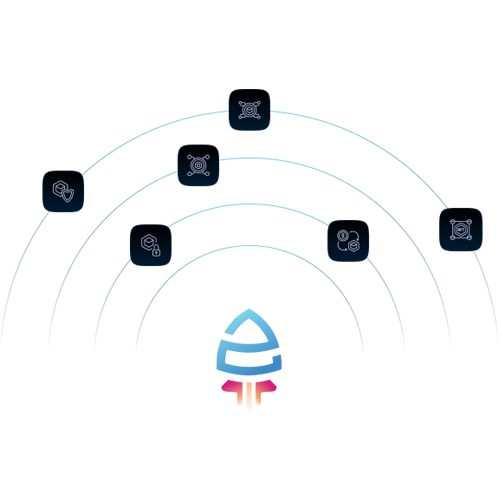
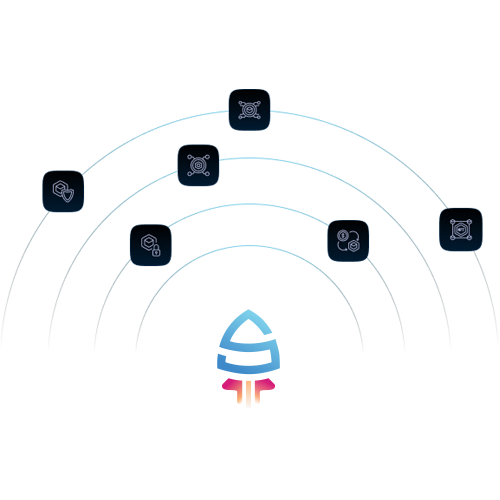
feat: animation fix & new images

Changed region(s): [[0.42, 0.63, 0.57, 0.81]]

diff --git a/src/app/components/Elements/Cards.tsx b/src/app/components/Elements/Cards.tsx
@@ -6,6 +6,7 @@ import stack from "../../../../public/staking.png";
 import liqlock from "../../../../public/lock.png";
 import token from "../../../../public/tokenomics.png";
 import { useEffect, useState } from "react";
+import { animate, inView, spring, stagger } from "motion";
 
 export default function Cards({ name, desc, type }: { name: string; desc: string; type: number }) {
 	const [pic, setPic] = useState(chain);
@@ -24,23 +25,38 @@ export default function Cards({ name, desc, type }: { name: string; desc: string
 			default:
 				setPic(token);
 		}
+		inView(".pop-in", (event) => {
+			const ele = event.target.getElementsByTagName("h2")[0];
+			const ele2 = event.target.getElementsByTagName("p")[0];
+			if (ele && ele2) {
+				animate(
+					[ele, ele2],
+					{ y: [15, 0], opacity: [0, 1] },
+					{
+						easing: "ease-in-out",
+						duration: 0.5,
+						delay: stagger(0.2, { start: 0.5 }),
+					}
+				);
+			}
+		});
 	}, []);
 	return (
 		<>
 			<div
 				className={
-					"basis-full lg:basis-1/2 flex max-2xl:flex-col items-center max-lg:mb-16 lg:mb-20 max-2xl:text-center overflow-hidden border-slate-200/30 mx-auto pop "
+					"basis-full lg:basis-1/2 flex max-2xl:flex-col items-center max-lg:mb-16 lg:mb-20 max-2xl:text-center overflow-hidden border-slate-200/30 mx-auto "
 				}
 			>
 				<div className="w-3/5 md:w-1/3 lg:w-1/2 2xl:w-4/5 xl:px-6">
 					<Image
 						id="box"
 						src={pic}
-						className="rounded-lg" // lg:shadow-[10px_20px_200px_#29abe236]  bg-gradient-to-br from-neutral-800 to-black w-full md:w-96 2xl:w-96 h-auto py-4 px-10 lg:px-16 2xl:px-0 2xl:py-0
+						className="rounded-lg pop" // lg:shadow-[10px_20px_200px_#29abe236]  bg-gradient-to-br from-neutral-800 to-black w-full md:w-96 2xl:w-96 h-auto py-4 px-10 lg:px-16 2xl:px-0 2xl:py-0
 						alt="SAFU Launcher Logo"
 					/>
 				</div>
-				<div className="pt-6 pb-8 lg:px-10">
+				<div className="pt-6 pb-8 lg:px-10 pop-in">
 					<h2 className="text-3xl/tight font-semibold mb-2 bg-gradient-to-t from-slate-200/80 to-slate-200 safu-grad-text-white">
 						{name}
 					</h2>

diff --git a/src/app/components/Elements/Block.tsx b/src/app/components/Elements/Block.tsx
@@ -2,8 +2,8 @@
 
 import Image from "next/image";
 import verse from "../../../../public/gov.png";
-import ai from "../../../../public/tokens.png";
-import game from "../../../../public/game.png";
+import ai from "../../../../public/ai.png";
+import game from "../../../../public/gamify.png";
 import { useState, useEffect } from "react";
 
 export default function Block({ name, desc, type }: { name: string; desc: string; type: number }) {
@@ -32,13 +32,13 @@ export default function Block({ name, desc, type }: { name: string; desc: string
 				<Image
 					id="box"
 					src={pic}
-					className="w-full h-auto rounded-3xl overflow-hidden border border-gray-400/40 pop" // lg:shadow-[10px_20px_200px_#29abe236]  bg-gradient-to-br from-neutral-800 to-black
+					className="w-full h-auto rounded-3xl overflow-hidden pop" // lg:shadow-[10px_20px_200px_#29abe236]  bg-gradient-to-br from-neutral-800 to-black
 					alt="SAFU Launcher Logo"
 				/>
 			</div>
 			<div
 				className={
-					"max-lg:pt-6 max-lg:pb-16 lg:grow basis-0 pop " + (type === 2 || type === 4 ? "lg:pr-20" : "lg:pl-20")
+					"max-lg:pt-6 max-lg:pb-16 lg:grow basis-0 pop-in " + (type === 2 || type === 4 ? "lg:pr-20" : "lg:pl-20")
 				}
 			>
 				<h2 className="text-4xl md:text-5xl/tight font-semibold mb-2 bg-gradient-to-t from-slate-200/80 to-slate-200 safu-grad-text-white">

diff --git a/src/app/components/Features.tsx b/src/app/components/Features.tsx
@@ -2,7 +2,7 @@
 
 import { useState, useEffect } from "react";
 import Cards from "./Elements/Cards";
-import { animate, inView, spring, stagger } from "motion";
+import { animate, inView, spring } from "motion";
 
 export default function Features() {
 	const [show, setShow] = useState(false);
@@ -16,11 +16,16 @@ export default function Features() {
 			inView(".pop", (event) => {
 				animate(
 					event.target,
-					{ y: [15, 0], opacity: [0, 1], scale: [0.95, 1], skewX: [2, 0], skewY: [1, 0] },
+					{ y: [15, 0], opacity: [0, 1] },
 					{
 						easing: spring({ stiffness: 300, damping: 16, mass: 1 }),
-						delay: stagger(0.2, { start: 0.5 }),
+						delay: 0.5,
 					}
+					// { y: [15, 0], opacity: [0, 1], scale: [0.95, 1], skewX: [2, 0], skewY: [1, 0] },
+					// {
+					// 	easing: spring({ stiffness: 300, damping: 16, mass: 1 }),
+					// 	delay: stagger(0.2, { start: 0.1 }),
+					// }
 				);
 			});
 		}

diff --git a/src/app/components/Intro.tsx b/src/app/components/Intro.tsx
@@ -12,11 +12,10 @@ export default function Intro() {
 
 	useEffect(() => {
 		if (show) {
-			const delay = window.innerWidth > 1024 ? 3 : 3;
 			animate(
 				".ups",
 				{ y: [15, 0], opacity: [0, 1] },
-				{ easing: spring({ stiffness: 300, damping: 16, mass: 1 }), delay: stagger(0.3, { start: delay }) }
+				{ easing: spring({ stiffness: 300, damping: 16, mass: 1 }), delay: stagger(0.3, { start: 3 }) }
 			);
 		}
 	}, [show]);

diff --git a/src/app/components/Navigation.tsx b/src/app/components/Navigation.tsx
@@ -17,13 +17,12 @@ function Navigation() {
 
 	useEffect(() => {
 		if (isClient) {
-			const delay = window.innerWidth > 1024 ? 2 : 2;
 			animate(
 				".down",
 				{ y: [-35, 0], opacity: [0, 1] },
 				{
 					easing: spring({ stiffness: 300, damping: 16, mass: 1 }),
-					delay: stagger(0.3, { start: delay }),
+					delay: stagger(0.3, { start: 2 }),
 					duration: 0.5,
 				}
 			);
